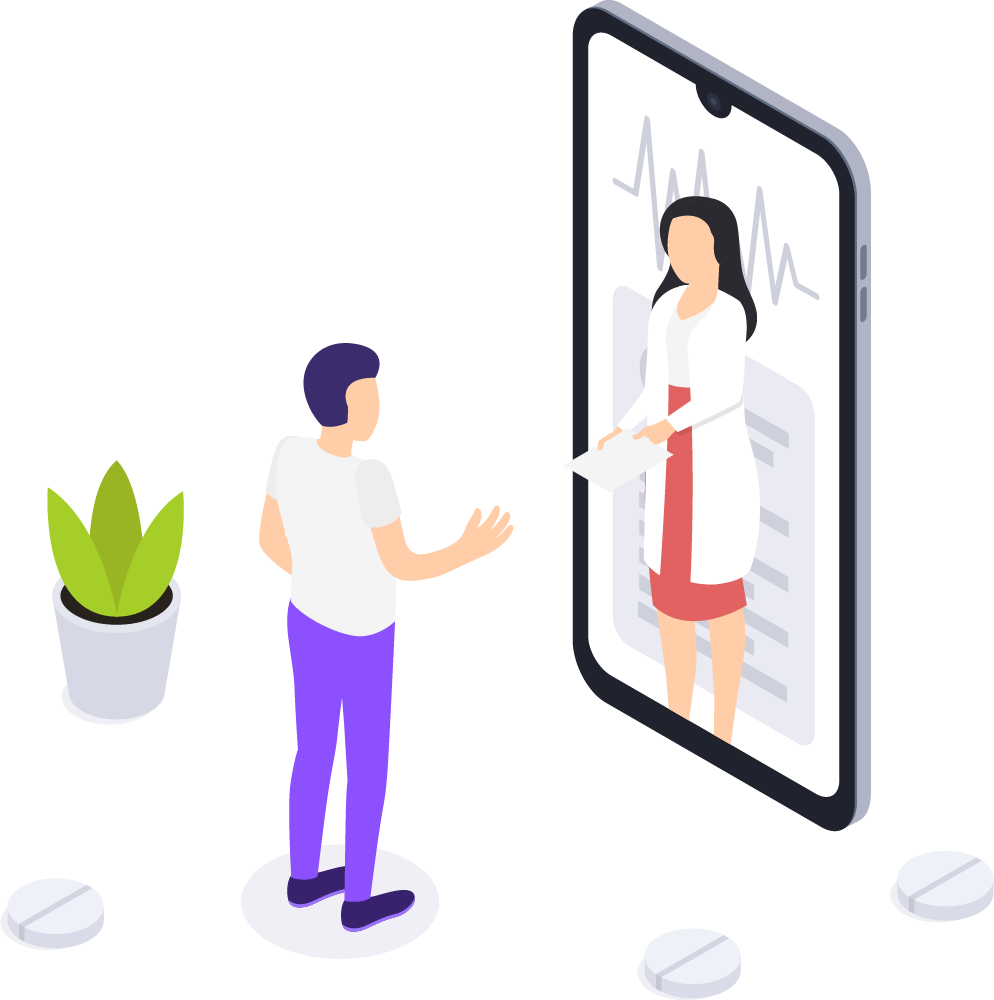
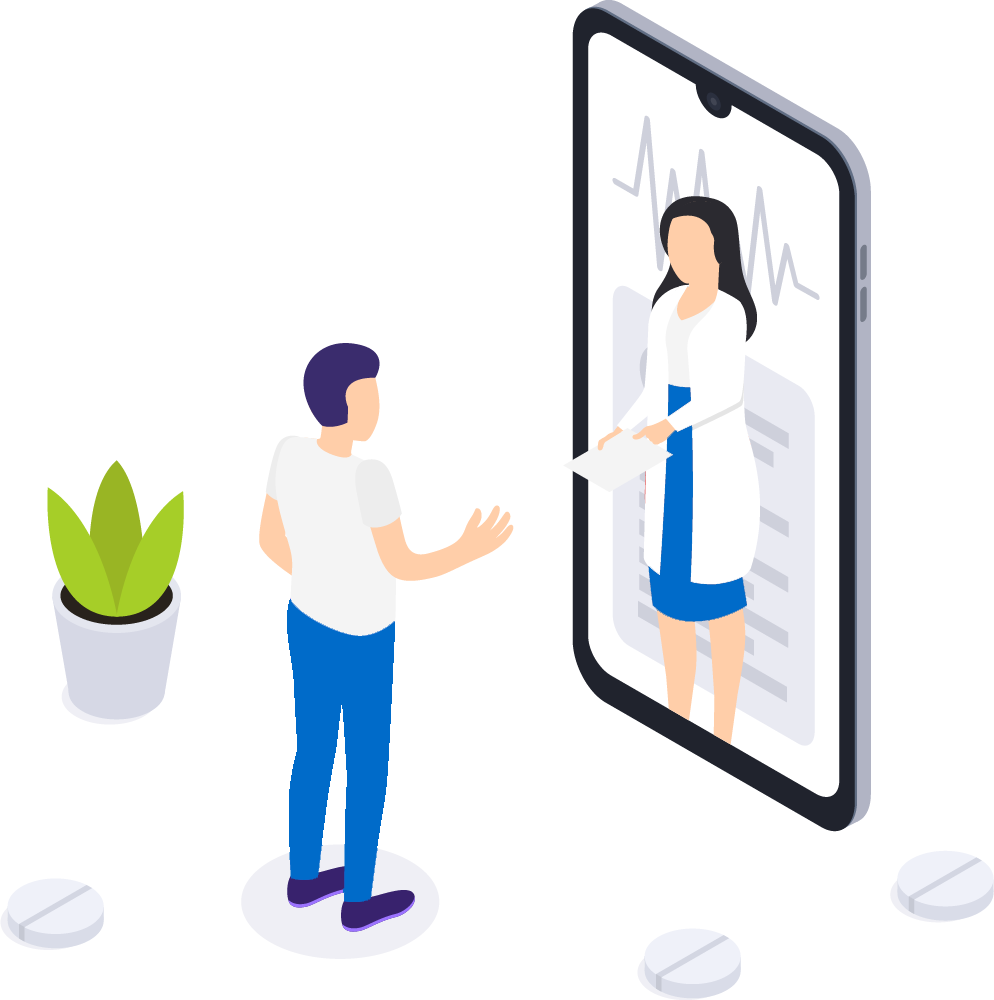
(CHANGE) Se cambian colores de imagenes nosotros 1 y 2, se eliminaa codigo sobrante en login

Changed region(s): [[0.2807, 0.589, 0.4054, 0.899], [0.6549, 0.372, 0.7485, 0.62]]

diff --git a/assets/styles.css b/assets/styles.css
@@ -246,6 +246,7 @@ font-family: 'Sora', sans-serif !important;
     color: #1c92d2;
     font-size: 2rem;
 }
+
 .tituloc1 {
     color: #1c92d2;
     font-size: 1.3rem;
@@ -288,14 +289,13 @@ font-family: 'Sora', sans-serif !important;
 
 
 .form-control {
-    width: 300px !important; 
+    width: 300px !important;
+
 }
 
 .form-control2 {
         display: block;
         width: 430px !important;
-        max-width: 100vw;
-        min-height: 100vh;
         padding: 0.375rem 0.75rem;
         font-size: 1rem;
         font-weight: 400;
@@ -316,11 +316,12 @@ font-family: 'Sora', sans-serif !important;
 
 
 .forma1 {
-    width: min-content !important;
+    width: max-content !important;
     border-radius: 1rem;
     background-color: rgb(255, 255, 255);
     box-shadow: 0px 0px 20px #9f9f9f;
 }
+
 
 
 
@@ -359,6 +360,7 @@ font-family: 'Sora', sans-serif !important;
     background-size: 20px 20px;
     background-repeat: no-repeat;
     background-position: left center;
+
     
 }
 
@@ -399,7 +401,8 @@ font-family: 'Sora', sans-serif !important;
 
 .linealogin {
     height: 17px !important;
-    
+    max-width: 100%;
+    min-height: 100%;
 }
 
 .ms-11 {
@@ -416,8 +419,8 @@ font-family: 'Sora', sans-serif !important;
   background-repeat: no-repeat;
   background-image: linear-gradient(        
     0deg,
-  rgba(0, 136, 255, 0.5),  
-  rgba(255, 255, 255, 0.603)
+  rgba(0, 136, 255, 0.502),  
+  rgba(255, 255, 255, 0.604)
   );
   max-width: 100vw;
   min-height: 100vh;

diff --git a/login.html b/login.html
@@ -42,7 +42,7 @@
 <!-- Fin de NavBar -------------------------------------------------------------------------------> 
 
 <!-- Login -->
-<section class="bglogin" id="inicio">
+<section id="inicio">
 
 
   <div class="container d-flex justify-content-center">
@@ -67,8 +67,8 @@
           <input type="password" class="form-control user_placeholder2" placeholder="       Contraseña">
         </div>
         <div class="d-flex justify-content-center">
-          <a class="link active mt-4  fc1 ms-0" aria-current="page" href="">Olvidaste tu Contraseña?</a>
-          <button type="button" class="btn-login mb-3 ms-3 mt-3" href="?????"><span class="alinear">Ingresar</span></button>
+          <a class="link active mt-4  fc1  me-2" aria-current="page" href="">Olvidaste tu Contraseña?</a>
+          <button type="button" class="btn-login mb-3 ms-0 mt-3" href="?????"><span class="alinear">Ingresar</span></button>
         </div>
         <div class="d-flex justify-content-center">
           <a class="link active mt-0  mb-2 fc1" aria-current="page" href="registro.html">Regístrate</a>
